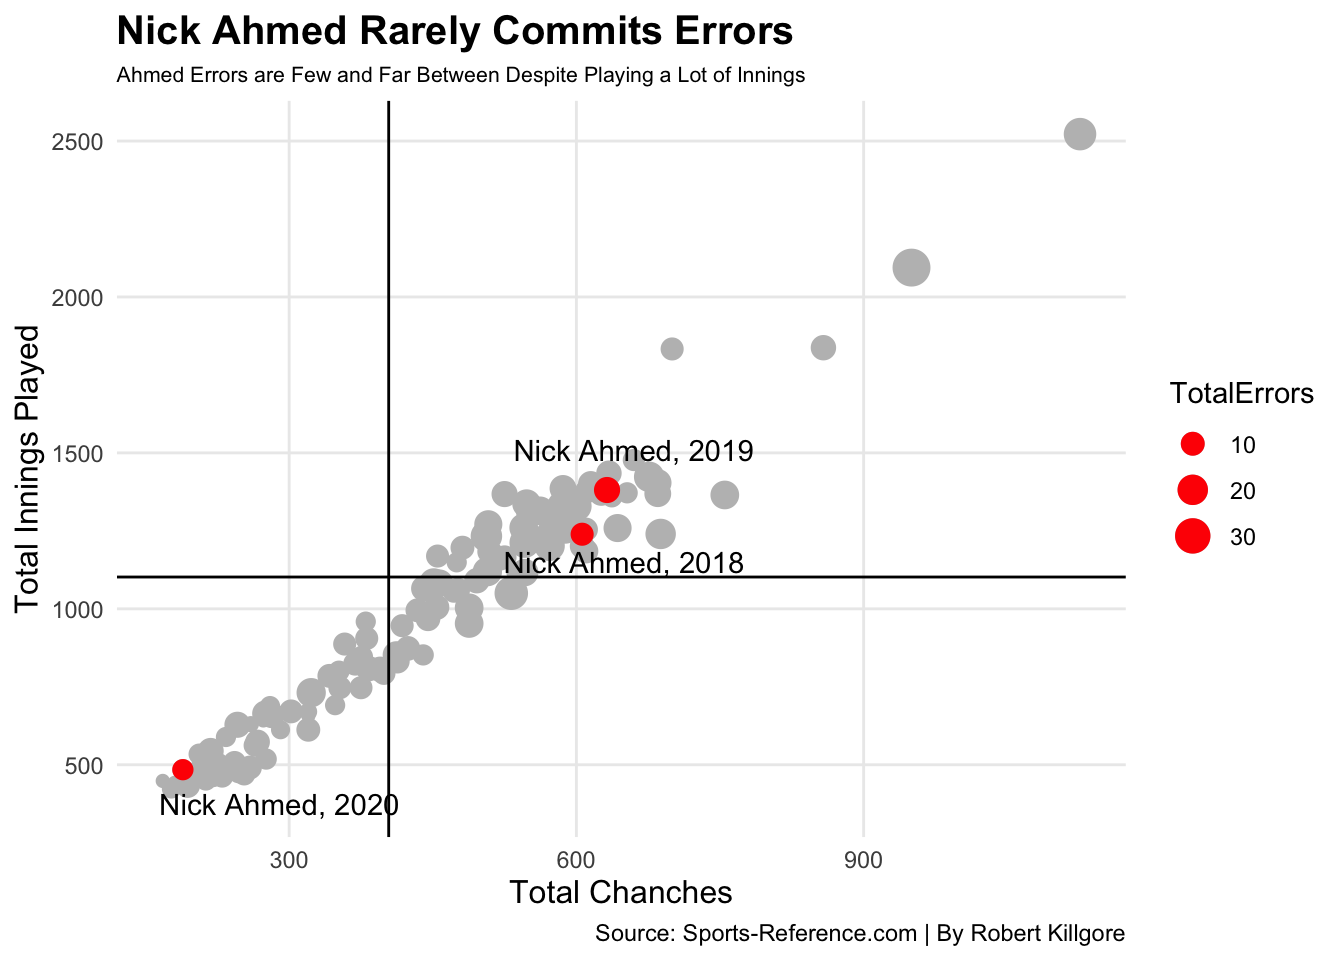
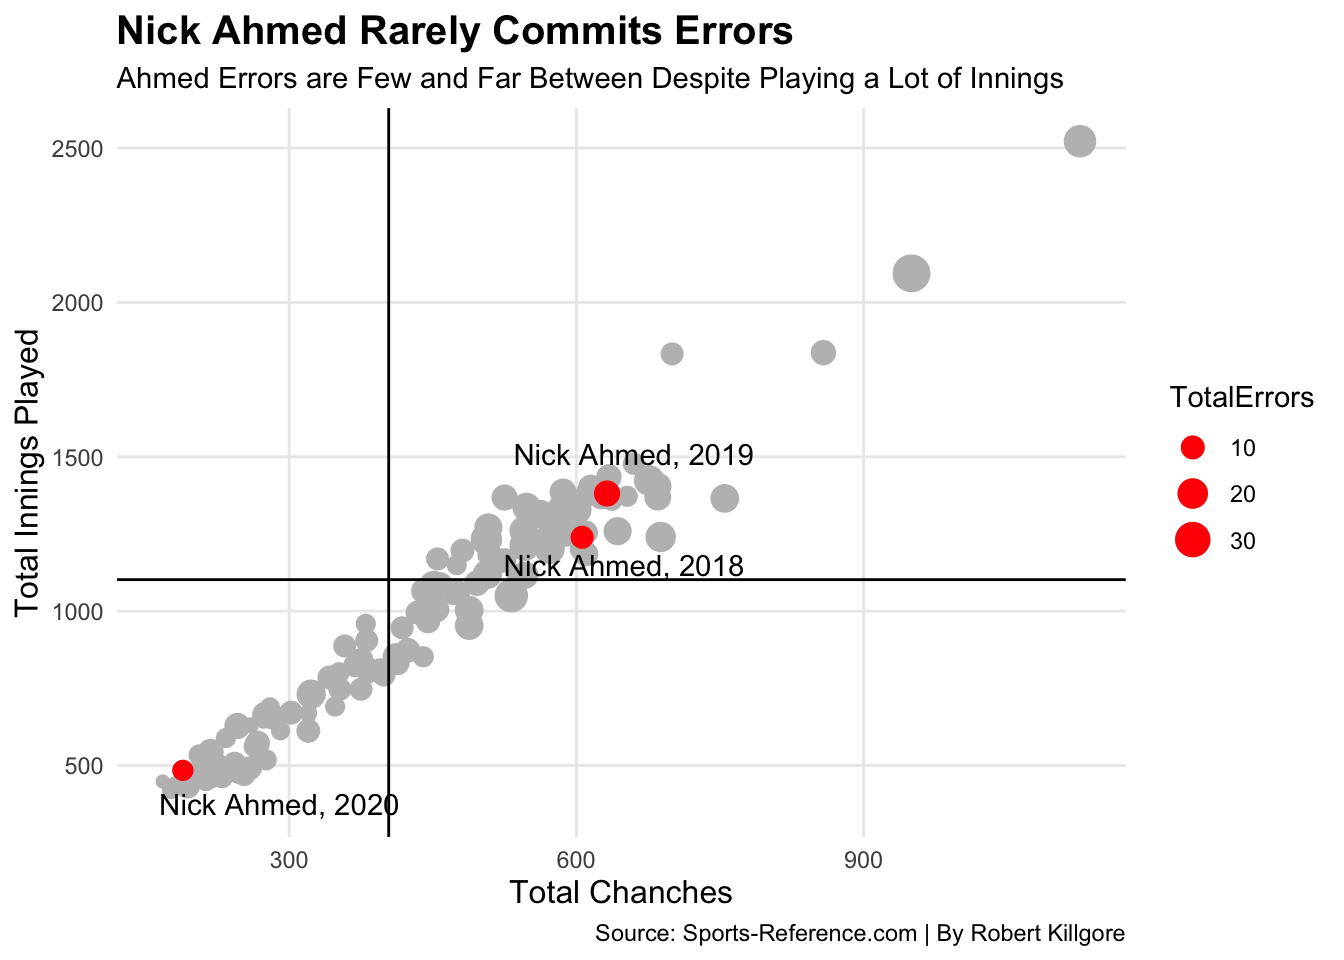
test

diff --git a/2021/04/21/is-nick-ahmed-the-best-defensive-shortshop-in-basbeall/index.html b/2021/04/21/is-nick-ahmed-the-best-defensive-shortshop-in-basbeall/index.html
@@ -76,7 +76,7 @@
 <script src="/2021/04/21/is-nick-ahmed-the-best-defensive-shortshop-in-basbeall/index_files/header-attrs/header-attrs.js"></script>
 
 
-<p>Nick Ahmed debuted for the Diamondbacks in 2014, blossoming into a two time Gold Glove winner and becoming the Diamondbacks everyday shortshop. Let’s see if he is the best defensive shortshop in baseball using shortshop fielding data from the last four seasons.</p>
+<p>Nick Ahmed debuted for the Arizona Diamondbacks in 2014, blossoming into a two time Gold Glove winner and becoming the Diamondbacks everyday shortshop. Let’s see if he is the best defensive shortshop in baseball using shortshop fielding data from the last four seasons.</p>
 <pre class="r"><code>library(tidyverse)</code></pre>
 <pre><code>## ── Attaching packages ─────────────────────────────────────── tidyverse 1.3.1 ──</code></pre>
 <pre><code>## ✓ ggplot2 3.3.3     ✓ purrr   0.3.4
@@ -120,7 +120,7 @@ library(ggbeeswarm)</code></pre>
      theme(
     plot.title = element_text(size = 14, face = &quot;bold&quot;),
     axis.title = element_text(size = 10), 
-    plot.subtitle = element_text(size= 8), 
+    plot.subtitle = element_text(size= 10), 
     panel.grid.minor = element_blank()
   )</code></pre>
 <p><img src="/2021/04/21/is-nick-ahmed-the-best-defensive-shortshop-in-basbeall/index_files/figure-html/unnamed-chunk-8-1.png" width="672" /></p>
@@ -158,12 +158,6 @@ Ahmed finished the 2018 season with a .985 fielding percentage in 2018 and a .97
     TotalChanches = sum(Ch), 
     TotalErrors = sum(Errors))</code></pre>
 <pre><code>## `summarise()` has grouped output by &#39;Name&#39;. You can override using the `.groups` argument.</code></pre>
-<pre class="r"><code>ggplot() + 
-  geom_point(
-    data=goodfielders, 
-    aes(x=TotalChanches, y=TotalInningsPlayed, size=TotalErrors)
-    )</code></pre>
-<p><img src="/2021/04/21/is-nick-ahmed-the-best-defensive-shortshop-in-basbeall/index_files/figure-html/unnamed-chunk-15-1.png" width="672" /></p>
 <pre class="r"><code>ahmed &lt;-goodfielders %&gt;% filter(Name==&quot;Nick Ahmed&quot;)</code></pre>
 <pre class="r"><code>ggplot() + 
   geom_point(
@@ -184,7 +178,7 @@ Ahmed finished the 2018 season with a .985 fielding percentage in 2018 and a .97
      theme(
     plot.title = element_text(size = 15, face = &quot;bold&quot;),
     axis.title = element_text(size = 12), 
-    plot.subtitle = element_text(size=8), 
+    plot.subtitle = element_text(size=11), 
     panel.grid.minor = element_blank()
   )</code></pre>
 <p><img src="/2021/04/21/is-nick-ahmed-the-best-defensive-shortshop-in-basbeall/index_files/figure-html/unnamed-chunk-17-1.png" width="672" />
